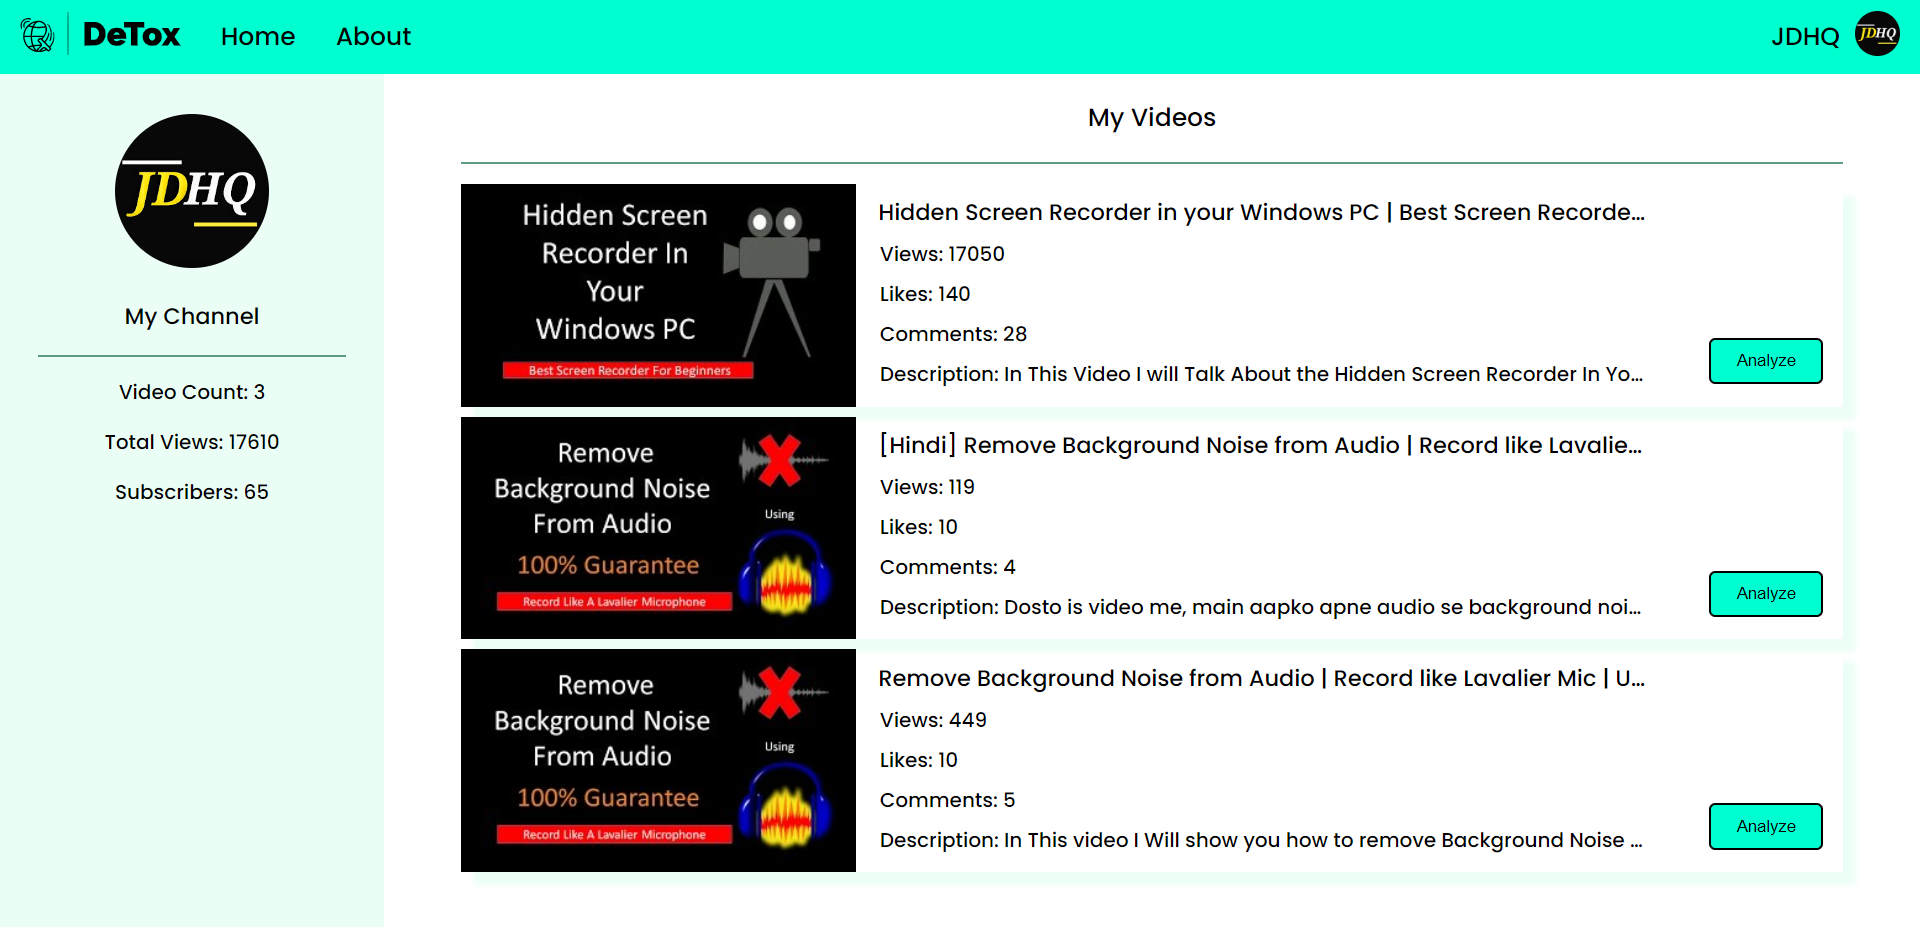
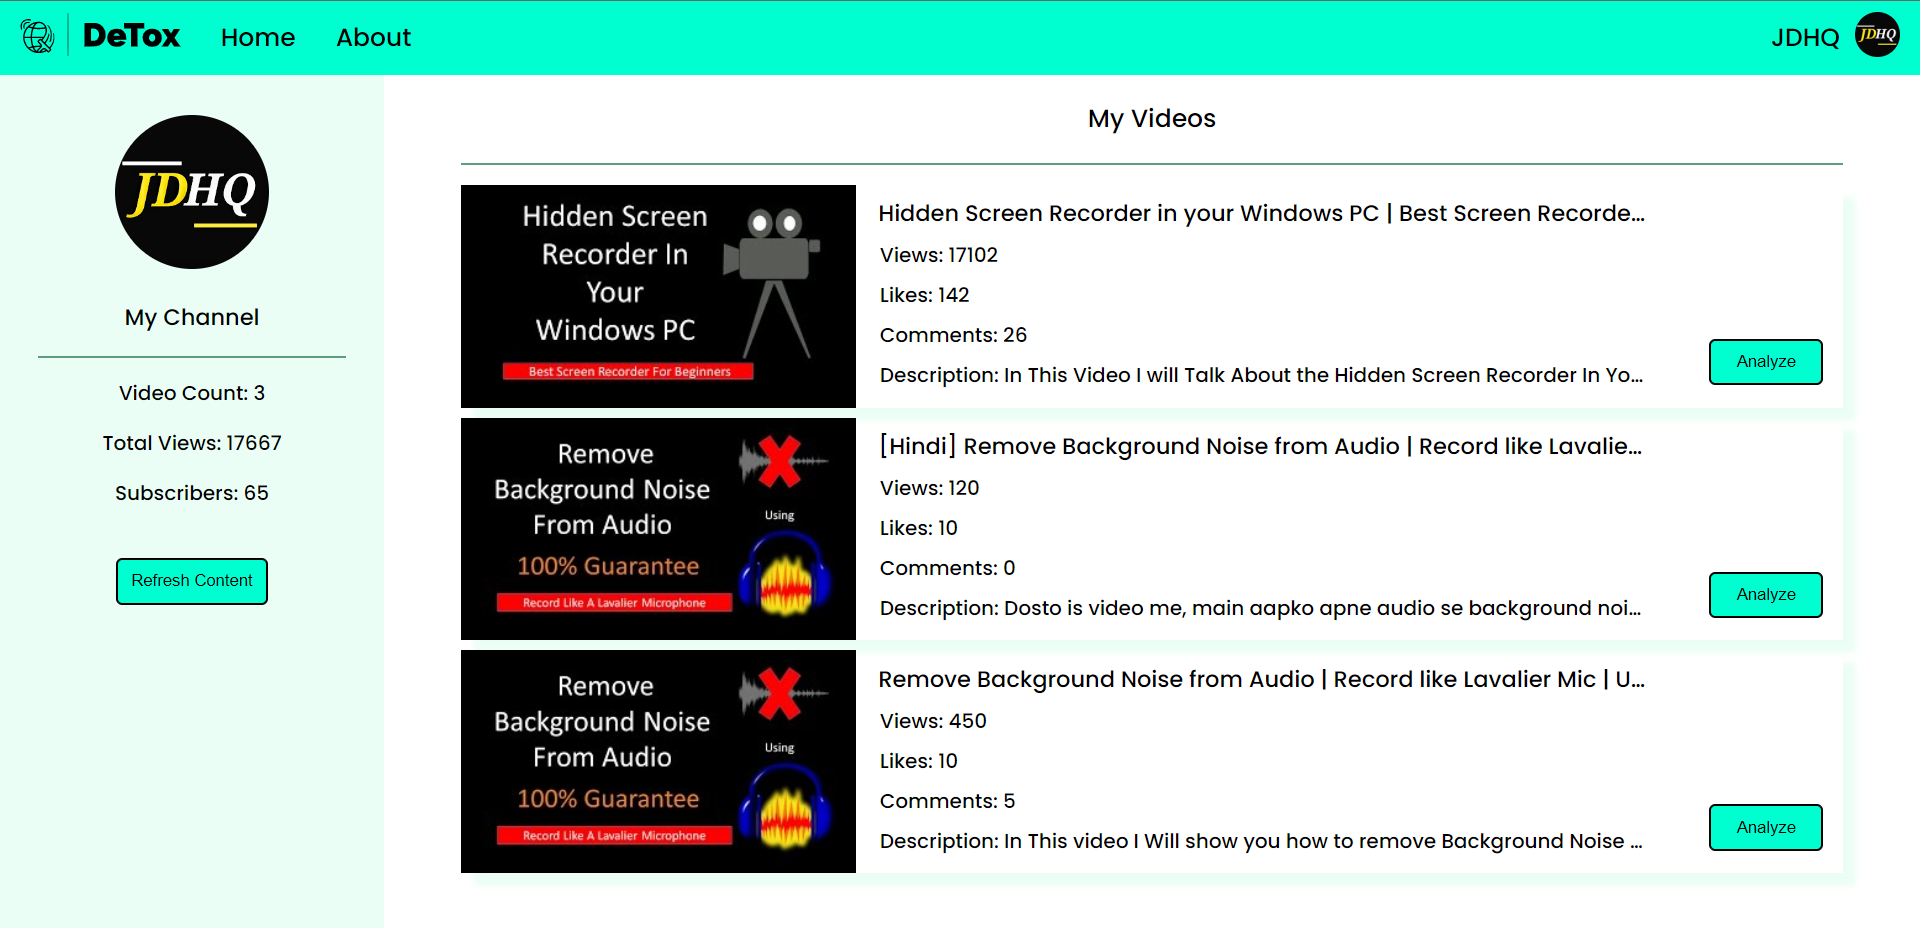
Added refresh button on home page to load updated channel content, minor fixes

diff --git a/app/templates/home.html b/app/templates/home.html
@@ -40,6 +40,10 @@
                 <p>Video Count: {{ channel_details['stats']["videoCount"] }}</p>
                 <p>Total Views: {{ channel_details['stats']["viewCount"] }}</p>
                 <p>Subscribers: {{ channel_details['stats']["subscriberCount"] }}</p>
+                <br>
+                <div class="button-holder">
+                    <a href="{{ url_for('refresh_home') }}"><button type="button" onclick="displayLoader()">Refresh Content</button></a>
+                </div>
             </div>
             <div class="main-content">
                 <p style="font-size: 20px;">My Videos</p> 

diff --git a/app/static/css/styles.css b/app/static/css/styles.css
@@ -180,6 +180,16 @@ html, body {
     margin-inline-end: 1em;
 }
 
+.side-bar .button-holder button {
+    vertical-align: middle;
+    background-color: #00ffd0;
+    color: black;
+    line-height: 2.5;
+    padding: 0 10px;
+    border-radius: 5px;
+    cursor: pointer;
+}
+
 /* Main Section */
 .main-content {
     float: left;

diff --git a/app/views/video_analysis.py b/app/views/video_analysis.py
@@ -42,7 +42,7 @@ async def video_analysis(request: Request, video_id: str):
             analysis_obj.appendComments(comment_dict)
         
     except QuotaExceededError: # request quota is exceeded
-        return HTMLResponse("There was an issue in fetching data from youtube. Please comeback in a while.")
+        return HTMLResponse("Cannot connect to youtube right now. Please comeback in a while.")
     
     except AccessTokenExpiredError: # get fresh access token using refresh token
         request.session["redirect_url"] = str(request.url)
@@ -113,7 +113,7 @@ async def reject_comments(request: Request, video_id: str):
         await rejectComments(request.session["credentials"], toxic_ids)
     
     except QuotaExceededError: # request quota is exceeded
-        return HTMLResponse("There was an issue in fetching data from youtube. Please comeback in a while.")
+        return HTMLResponse("Cannot connect to youtube right now. Please comeback in a while..")
     
     except AccessTokenExpiredError: # get fresh access token using refresh token
         request.session["redirect_url"] = str(request.url)

diff --git a/app/auth/google_oauth2.py b/app/auth/google_oauth2.py
@@ -40,7 +40,7 @@ async def oauth2callback(request: Request, state: str = None, code: str = None):
     else:
         # ensure that authorization request was called from our application
         if STATE != state:
-            return HTMLResponse(f"Invalid state parameter. Please visit the <a href={request.url_for('landing')}>web-app</a> to complete the authorization.You need to before testing the code to revoke credentials.")
+            return HTMLResponse(f"Invalid state parameter. Please visit the <a href={request.url_for('landing')}>web-app</a> to complete the authorization.")
         
         # retrieve access token
         auth_code = code

diff --git a/app/views/home.py b/app/views/home.py
@@ -64,3 +64,19 @@ async def home(request: Request):
     }
     
     return templates.TemplateResponse("home.html", context = context_dict)
+
+
+@home_view.get("/refresh-home")
+async def refresh_home(request: Request):
+    """Clears the channel data stored in session storage.
+
+    Args:
+        request (Request): A Request object containing request data sent from client side.
+
+    Returns:
+        RedirectResponse: Redirects to home page where updated channel data is fetched.
+    """
+    
+    del request.session["channel_data"]
+    
+    return RedirectResponse(request.url_for("home"))
